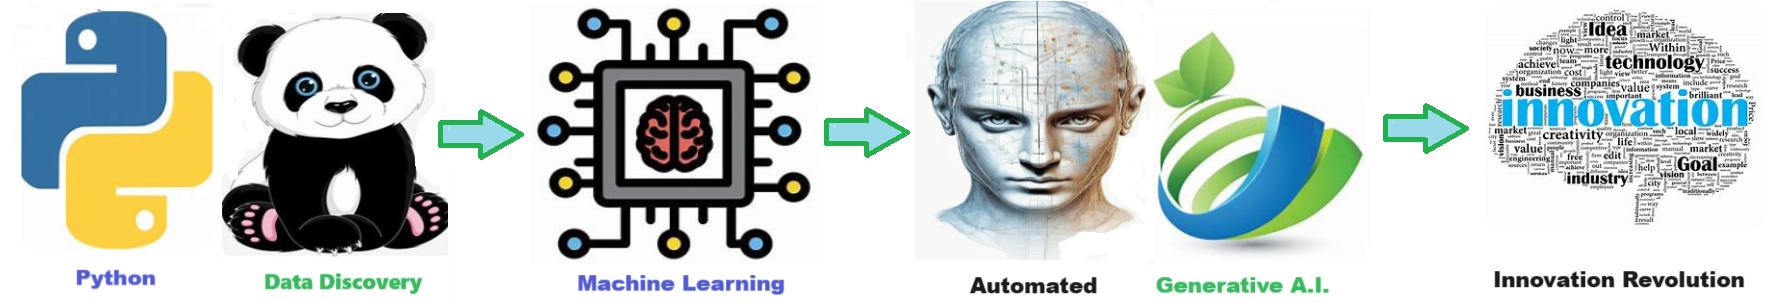
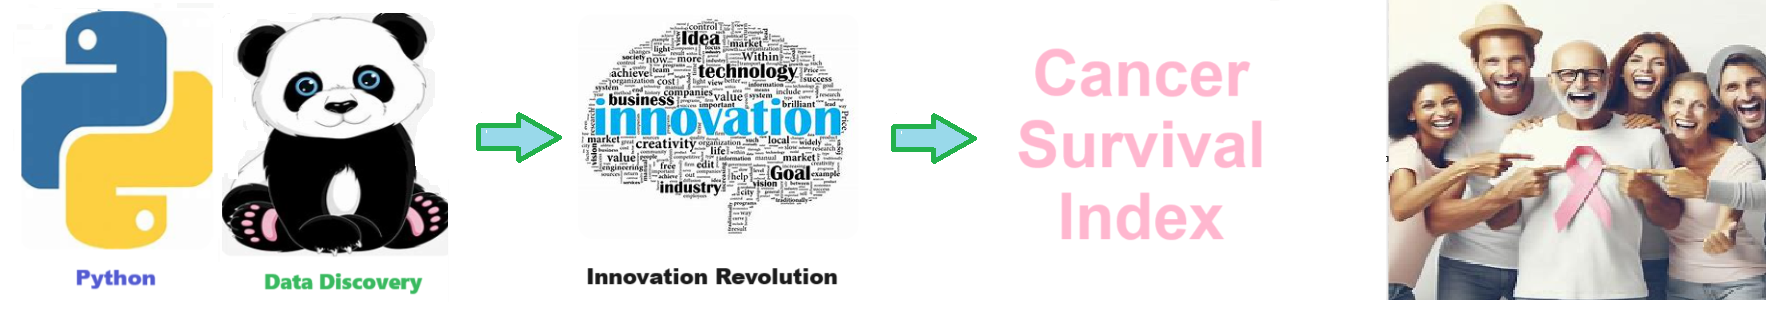
Automated 2024-05-23 commit

diff --git a/solution_description.md b/solution_description.md
@@ -1,11 +1,4 @@
 
-![Image image_filename](solution_sign.png)
-
-# Cancer Survival Index - Calculated index of monthly survival from initial (De Novo) diagnosis
-Calculated index of monthly survival from initial (De Novo) diagnosis
-
-![Image image_filename](code.png)
-
 
 ## The Utility of a Cancer Survival Index in Comparative Effectiveness Research
 
@@ -27,45 +20,3 @@ Who Can Use the Cancer Survival Index?
 ## Conclusion
 In conclusion, the Cancer Survival Index is an invaluable tool in the field of oncology. Its ability to provide a consistent measure of patient survival facilitates better comparative effectiveness research, ultimately leading to improved treatment strategies and patient outcomes. By adopting the CSI, various stakeholders in the healthcare system can contribute to a more effective and equitable approach to cancer care.
 
-
-![Image image_filename](sample.png)
-
-## Getting Started
-To get started with the **Cancer Survival Index** solution repository, follow these steps:
-1. Clone the repository to your local machine.
-2. Install the required dependencies listed at the top of the notebook.
-3. Explore the example code provided in the repository and experiment.
-4. Run the notebook and make it your own - **EASY !**
-    
-## Solution Features
-- Easy to understand and use  
-- Easily Configurable 
-- Quickly start your project with pre-built templates
-- Its Fast and Automated
-
-## Notebook Features
-- **Self Documenting** - Automatically identifes major steps in notebook 
-- **Self Testing** - Unit Testing for each function
-- **Easily Configurable** - Easily modify with **config.INI** - keyname value pairs
-- **Includes Talking Code** - The code explains itself 
-- **Self Logging** - Enhanced python standard logging   
-- **Self Debugging** - Enhanced python standard debugging
-- **Low Code** - or - No Code  - Most solutions are under 50 lines of code
-- **Educational** - Includes educational dialogue and background material
-- **Secure** - All the sample solutions are secure and use synthetic data, ensuring they contain no sensitive data or information.
-    
-## Deliverables or Figures
- ![additional_image](cancer_survival_index.png)  <br>
-    
-
-## Github    
-## https://github.com/JoeEberle/ 
-
-## Email 
-## josepheberle@outlook.com 
-
-    
-![Developer](developer.png)
-
-![Brand](brand.png)
-    
